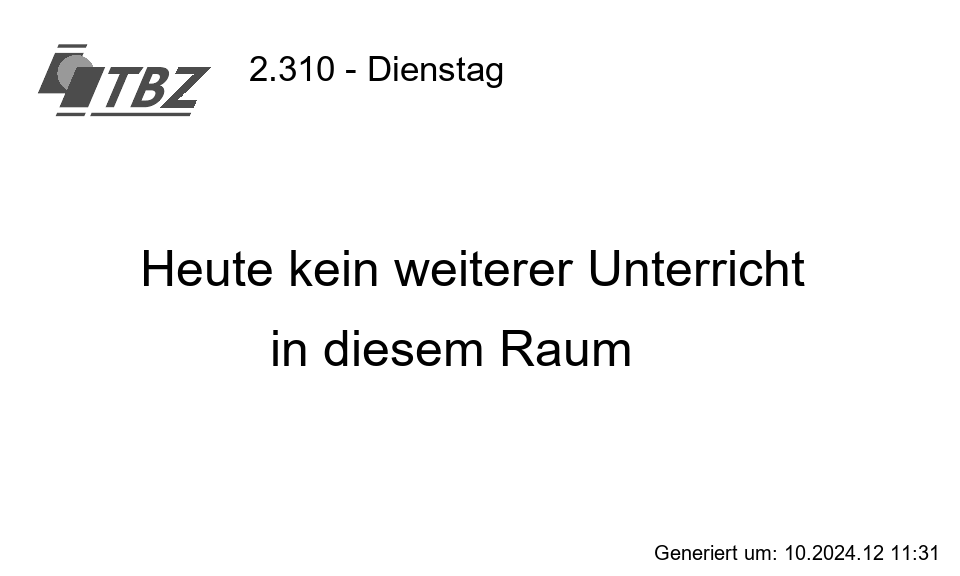
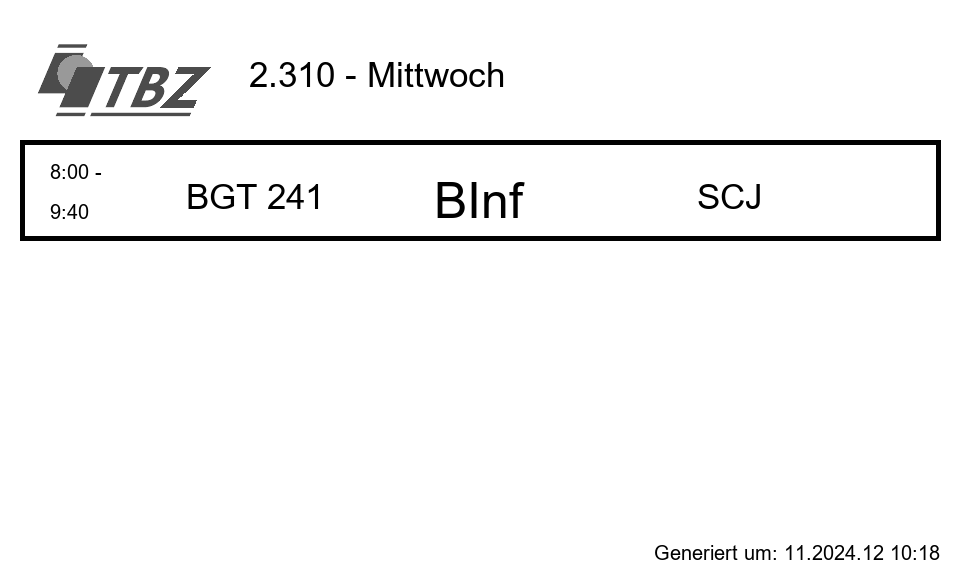
Imagegen erweiterte .JSON Configs

diff --git a/IMAGEGEN/imagegen2.py b/IMAGEGEN/imagegen2.py
@@ -27,6 +27,9 @@ try:
         #Standard-Font in Variable übertragen:
         Config_Font = config_data['config'][2]['Standard_font']
         Config_Rect_Color = config_data['config'][2]['Config_rect_color']
+        Config_Rect_Height = config_data['config'][2]['Config_rect_height']
+        Config_Rect_Margin = config_data['config'][2]['Config_rect_margin']
+        Config_Rect_Spacing = config_data['config'][2]['Config_rect_spacing']
 
 except:
     print("Configfile not found - Please check the File!")
@@ -60,10 +63,10 @@ def gen_image(room, start1, end1, teach1, sub1, klasse1, abw1, start2, end2, tea
     Abweichungen = ["Normaler Unterricht, keine Abweichung", "Ausfall"]
 
     # Rechteckparameter
-    rect_height = 100
-    rect_margin_top = 140
-    rect_spacing = 30
-    rect_subtxt = "DEMO"
+    rect_height = Config_Rect_Height
+    rect_margin_top = Config_Rect_Margin
+    rect_spacing = Config_Rect_Spacing
+    rect_subtxt = "ERR 404"
     rect_starttxt = "0"
     rect_endtxt = "0"
     rect_teachtxt = "0"
@@ -235,7 +238,7 @@ def gen_image(room, start1, end1, teach1, sub1, klasse1, abw1, start2, end2, tea
     image.save('graustufenbild_demo.png')
 
 
-# gen_image("2.310","0","0","0","0","0","0","0","0","0","0","0","0","0","0","0", "0","0","0")
+# gen_image("2.310","1","2","SCJ","BInf","BGT 241","0","0","0","0","0","0","0","0","0","0", "0","0","0")
 
 # if __name__ == "__main__":
 #    try:
